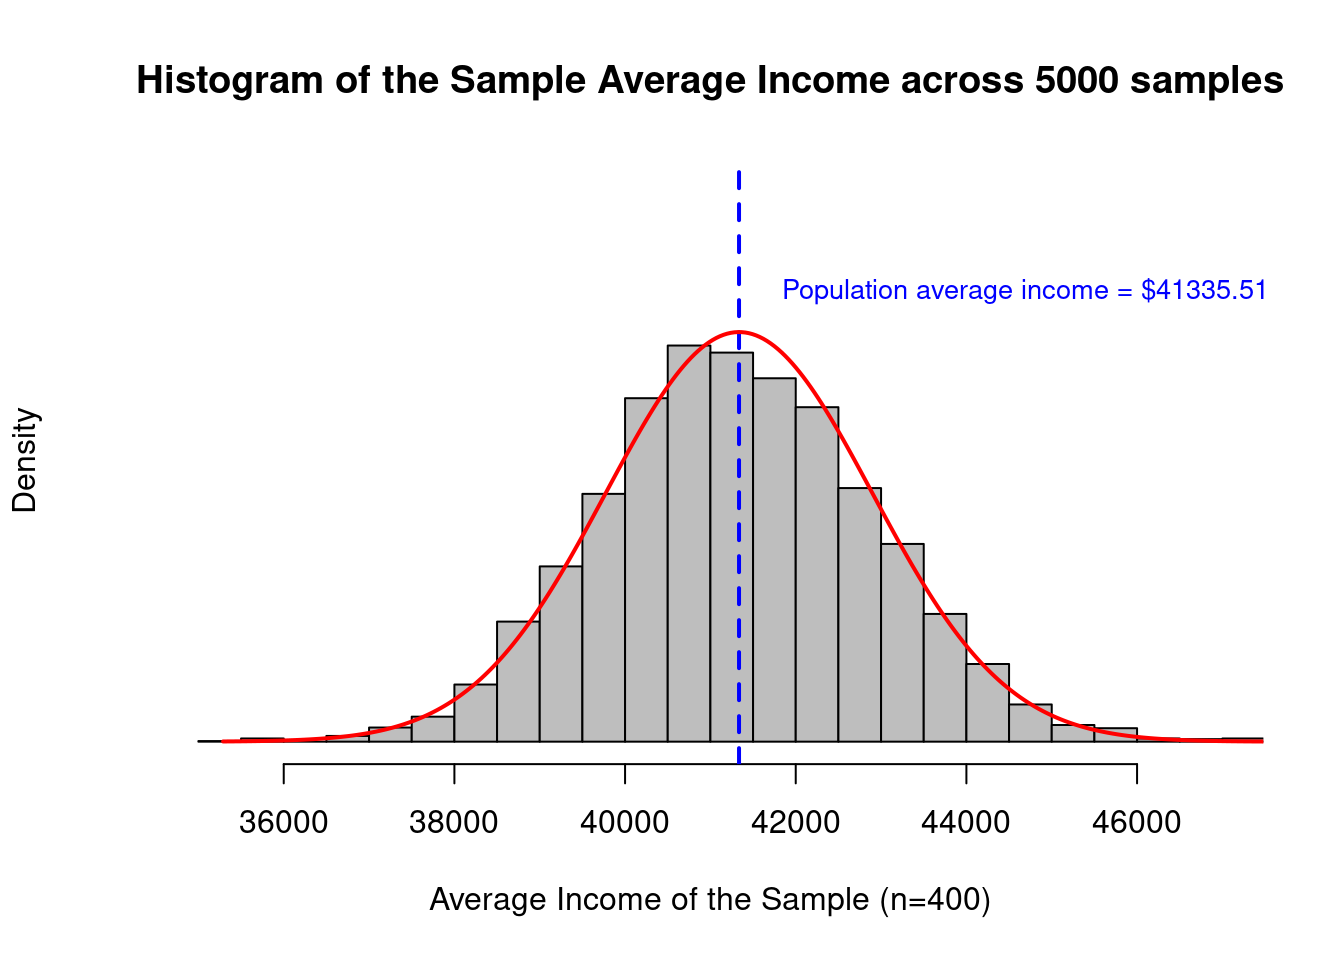
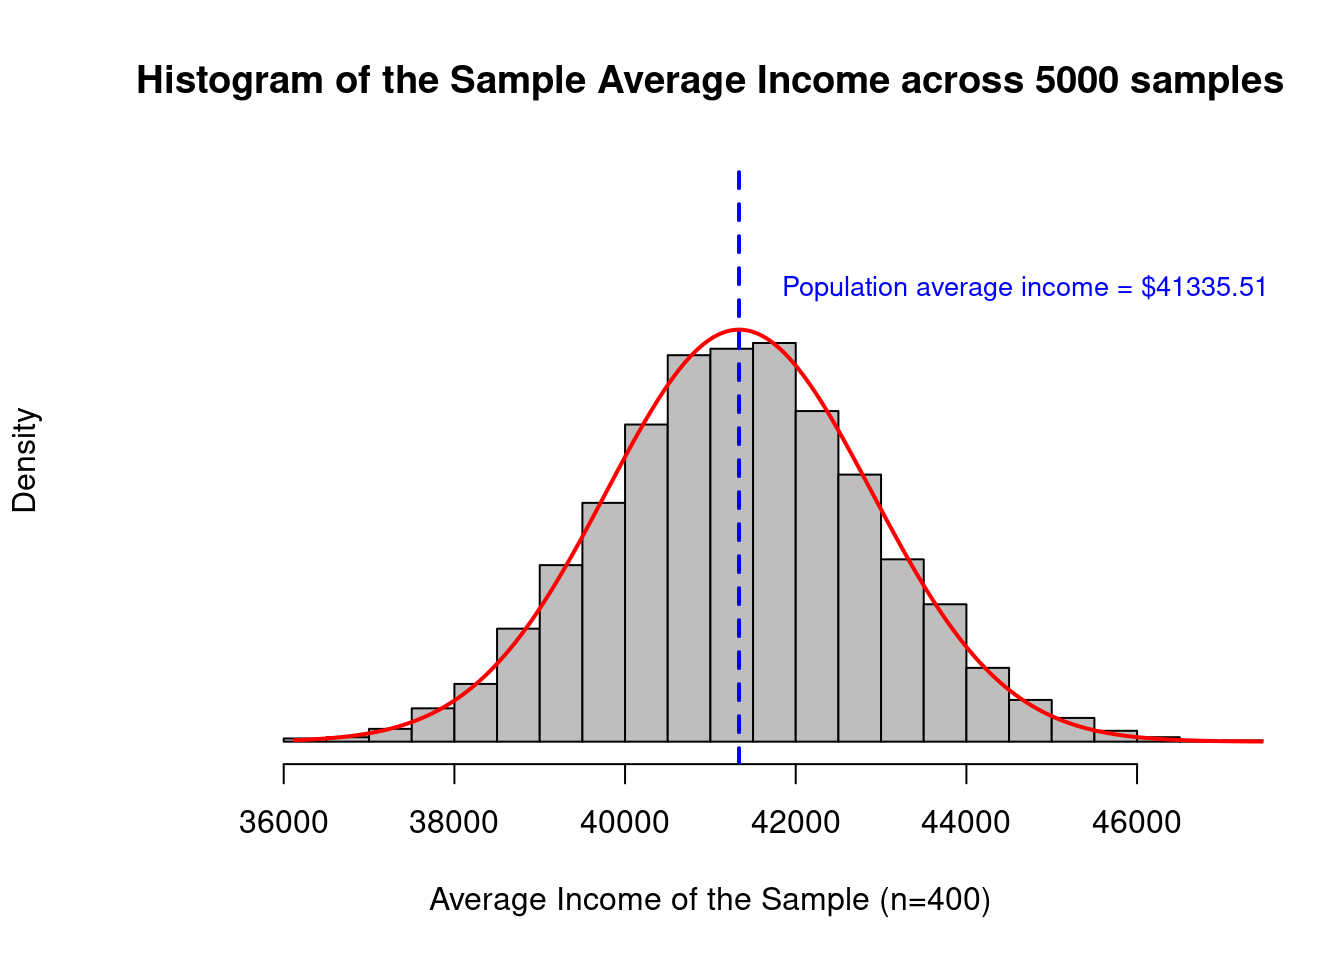
matrices data frames and arrays

diff --git a/docs/Intro-To-Coding-R.html b/docs/Intro-To-Coding-R.html
@@ -445,11 +445,14 @@ c(1, 2, 3, 4)</code></pre>
 x</code></pre>
 <pre><code>&gt; [1] 1.10 0.00 3.14 2.72</code></pre>
 <p>One way to access specific values within a vector is use the index of
-that value</p>
+that value:</p>
 <pre class="r"><code>x[1]</code></pre>
 <pre><code>&gt; [1] 1.1</code></pre>
 <pre class="r"><code>x[4]</code></pre>
 <pre><code>&gt; [1] 2.72</code></pre>
+<p>Or you can access a range of values:</p>
+<pre class="r"><code>x[2:4]</code></pre>
+<pre><code>&gt; [1] 0.00 3.14 2.72</code></pre>
 <p>Sequences of integers are so common that there is a shortcut for
 making them.</p>
 <pre class="r"><code>1:4</code></pre>
@@ -468,15 +471,124 @@ x</code></pre>
 &gt; [26] 26 27 28 29 30 31 32 33 34 35 36 37 38 39 40</code></pre>
 <hr />
 </div>
-<div id="arrays-matrices-data-frames" class="section level2">
-<h2>Arrays, Matrices, Data Frames</h2>
-<p>Stuff about arrays and matrices</p>
+<div id="matrices-arrays-data-frames" class="section level2">
+<h2>Matrices, Arrays, Data Frames</h2>
+<div id="matrices" class="section level3">
+<h3>Matrices</h3>
+<p>A matrix is a two dimensional set of data.</p>
+<p>You can specify matrices of any size. nrow tells R the number of
+rows, and ncol tells R the number of columns.</p>
+<pre class="r"><code>myMatrix = matrix(data = 0, nrow = 3, ncol = 2)</code></pre>
+<p>Like in a vector we can access matrix items using square brackets,
+however we now require two inputs, one for each dimension.</p>
+<pre class="r"><code>myMatrix</code></pre>
+<pre><code>&gt;      [,1] [,2]
+&gt; [1,]    0    0
+&gt; [2,]    0    0
+&gt; [3,]    0    0</code></pre>
+<pre class="r"><code>myMatrix[1,1] = 2
+myMatrix[1,2] = 3
+myMatrix</code></pre>
+<pre><code>&gt;      [,1] [,2]
+&gt; [1,]    2    3
+&gt; [2,]    0    0
+&gt; [3,]    0    0</code></pre>
+<p>We can also access entire rows or columns of matrices at once, by
+leaving the input blank.</p>
+<pre class="r"><code>myMatrix[1, ]</code></pre>
+<pre><code>&gt; [1] 2 3</code></pre>
+<pre class="r"><code>myMatrix[ , 1]</code></pre>
+<pre><code>&gt; [1] 2 0 0</code></pre>
+<p>We can add rows or columns using the rbind() and cbind()
+functions.</p>
+<pre class="r"><code>my2ndMatrix = cbind(myMatrix,c(1,2,3))
+my2ndMatrix</code></pre>
+<pre><code>&gt;      [,1] [,2] [,3]
+&gt; [1,]    2    3    1
+&gt; [2,]    0    0    2
+&gt; [3,]    0    0    3</code></pre>
+<pre class="r"><code>my2ndMatrix = rbind(myMatrix, c(1,2))
+my2ndMatrix</code></pre>
+<pre><code>&gt;      [,1] [,2]
+&gt; [1,]    2    3
+&gt; [2,]    0    0
+&gt; [3,]    0    0
+&gt; [4,]    1    2</code></pre>
+<p>Useful operators on matrices:</p>
+<pre class="r"><code>#Dimensions
+dim(myMatrix)</code></pre>
+<pre><code>&gt; [1] 3 2</code></pre>
+<pre class="r"><code>nrow(myMatrix)</code></pre>
+<pre><code>&gt; [1] 3</code></pre>
+<pre class="r"><code>ncol(myMatrix)</code></pre>
+<pre><code>&gt; [1] 2</code></pre>
+<pre class="r"><code>length(myMatrix)</code></pre>
+<pre><code>&gt; [1] 6</code></pre>
+<pre class="r"><code>#Check if item exists
+1 %in% myMatrix</code></pre>
+<pre><code>&gt; [1] FALSE</code></pre>
+<pre class="r"><code>2 %in% myMatrix</code></pre>
+<pre><code>&gt; [1] TRUE</code></pre>
+</div>
+<div id="arrays" class="section level3">
+<h3>Arrays</h3>
+<p>Arrays are very similar to matrices. The key difference is they can
+have more than two dimensions.</p>
+<pre class="r"><code># Creating a 4x3x2 array
+myArray = array(data = 0, dim = c(4,3,2))
+myArray[1,1,1] = 1
+myArray[1,2,1] = 2
+myArray[1,1,2] = 3
+myArray[1,2,2] = 4
+myArray[2, , ] = 5
+myArray</code></pre>
+<pre><code>&gt; , , 1
+&gt; 
+&gt;      [,1] [,2] [,3]
+&gt; [1,]    1    2    0
+&gt; [2,]    5    5    5
+&gt; [3,]    0    0    0
+&gt; [4,]    0    0    0
+&gt; 
+&gt; , , 2
+&gt; 
+&gt;      [,1] [,2] [,3]
+&gt; [1,]    3    4    0
+&gt; [2,]    5    5    5
+&gt; [3,]    0    0    0
+&gt; [4,]    0    0    0</code></pre>
+</div>
+<div id="data-frames" class="section level3">
+<h3>Data Frames</h3>
+<p>Data frames are more complex matrices. They allow for each column to
+contain a different data type. Some statistics functions will require
+either a data.frame or a matrix.</p>
+<p>The data you will be using in this class will be imported as data
+frames.</p>
+<p>You can use the same functions and methods of accessing data frames
+as you can matrices, with the addition of some new ones.</p>
+<pre class="r"><code>myDF = data.frame(col1 = 1:3, col2 = 4:6, col3 = c(&quot;a&quot;, &quot;b&quot;, &quot;c&quot;))
+myDF</code></pre>
+<pre><code>&gt;   col1 col2 col3
+&gt; 1    1    4    a
+&gt; 2    2    5    b
+&gt; 3    3    6    c</code></pre>
+<pre class="r"><code>#Request a summary of the data frame
+summary(myDF)</code></pre>
+<pre><code>&gt;       col1          col2         col3          
+&gt;  Min.   :1.0   Min.   :4.0   Length:3          
+&gt;  1st Qu.:1.5   1st Qu.:4.5   Class :character  
+&gt;  Median :2.0   Median :5.0   Mode  :character  
+&gt;  Mean   :2.0   Mean   :5.0                     
+&gt;  3rd Qu.:2.5   3rd Qu.:5.5                     
+&gt;  Max.   :3.0   Max.   :6.0</code></pre>
+<pre class="r"><code>#Access specific named columns
+myDF$col1</code></pre>
+<pre><code>&gt; [1] 1 2 3</code></pre>
+<pre class="r"><code>myDF$col3</code></pre>
+<pre><code>&gt; [1] &quot;a&quot; &quot;b&quot; &quot;c&quot;</code></pre>
 <hr />
 </div>
-<div id="data-tables" class="section level2">
-<h2>Data Tables</h2>
-<p>data.tables are hype</p>
-<hr />
 </div>
 <div id="functions" class="section level2">
 <h2>Functions</h2>
@@ -745,9 +857,8 @@ head(data)</code></pre>
 &gt; 6    3       3        2  23015      1        40</code></pre>
 <pre class="r"><code>#Count number of families with more than two people
 count = 0
-for(x in data$PERSONS){
-  # x is taken from each row of the &#39;persons&#39; column
-  if(x&gt;2) count = count + 1
+for(x in 1:nrow(data)){
+  if(data[x, &quot;PERSONS&quot;]&gt;2) count = count + 1
 }
 count</code></pre>
 <pre><code>&gt; [1] 25335</code></pre>

diff --git a/docs/03b-CLT.html b/docs/03b-CLT.html
@@ -457,11 +457,11 @@ deviation of the sample.</p>
 <pre class="r"><code># Calculate the sample mean of Income
 sample.avg &lt;- mean(study.data$INCOME)
 sample.avg</code></pre>
-<pre><code>&gt; [1] 39616.03</code></pre>
+<pre><code>&gt; [1] 44385</code></pre>
 <pre class="r"><code># Calculate the sample sd of Income
 sample.sd &lt;- sd(study.data$INCOME)
 sample.sd</code></pre>
-<pre><code>&gt; [1] 32323.15</code></pre>
+<pre><code>&gt; [1] 37624.98</code></pre>
 <p>If you run the last two sections of code repeatedly, you will find
 that each time a new sample is selected the sample mean is a different
 number.</p>
@@ -587,7 +587,7 @@ upperCI = sample.avg + qnorm(0.975, mean = 0, sd = 1) * se
 
 print(cbind(sample.avg, lowerCI, upperCI))</code></pre>
 <pre><code>&gt;      sample.avg  lowerCI  upperCI
-&gt; [1,]   41425.78 38361.97 44489.59</code></pre>
+&gt; [1,]   42670.69 39624.94 45716.45</code></pre>
 </div>
 <div id="interpreting-confidence-intervals" class="section level2">
 <h2>Interpreting confidence intervals</h2>
@@ -613,7 +613,7 @@ sample.reps$outBounds[ true.avg &gt; sample.reps$upperCI ] &lt;- 1
 
 # what % of study replications reported 95% CI that did not include the true population average?
 sum(sample.reps$outBounds)/m</code></pre>
-<pre><code>&gt; [1] 0.0508</code></pre>
+<pre><code>&gt; [1] 0.0522</code></pre>
 <p>I hope it is not too much of a surprise that this is really close to
 5%!</p>
 <p>Next: Elements of a Statistical Test</p>

diff --git a/docs/04a-Binomial-Test.html b/docs/04a-Binomial-Test.html
@@ -366,7 +366,7 @@ if(runif(1) &lt;= p){1}else{0}</code></pre>
 p = 1/6
 n = 20
 as.integer(runif(n) &lt;= p)</code></pre>
-<pre><code>&gt;  [1] 1 0 0 0 0 0 0 0 0 0 0 0 0 0 0 1 0 1 0 0</code></pre>
+<pre><code>&gt;  [1] 0 0 1 1 0 0 0 1 0 1 0 0 0 1 0 0 1 1 0 0</code></pre>
 </div>
 </div>
 <div id="binomial-distribution-functions" class="section level2">
@@ -424,9 +424,9 @@ trials when the probability of success is “prob”</p>
 n = 20
 p = 1/6
 rbinom(n = trials, size = n, prob = p)</code></pre>
-<pre><code>&gt;   [1] 2 5 3 3 5 3 4 2 5 5 7 1 5 1 2 4 6 3 7 1 1 5 1 0 5 2 5 3 4 4 4 2 3 1 2 5 1
-&gt;  [38] 3 4 4 3 5 1 2 6 2 4 1 5 3 5 3 4 5 6 2 2 3 4 4 6 6 4 5 5 3 1 6 3 4 2 4 4 3
-&gt;  [75] 2 3 3 3 2 2 6 2 3 5 1 5 3 4 6 4 1 4 4 6 3 4 2 4 2 7</code></pre>
+<pre><code>&gt;   [1] 3 1 4 3 3 2 0 1 5 5 4 2 4 2 5 2 3 3 1 1 2 4 5 4 2 3 2 0 7 4 4 4 1 7 1 1 0
+&gt;  [38] 5 1 2 3 2 2 4 2 4 2 3 2 0 5 7 4 6 4 1 5 3 3 2 2 1 1 3 4 1 2 4 2 5 2 4 5 4
+&gt;  [75] 2 6 2 3 5 3 6 1 3 2 2 4 4 6 3 6 2 3 5 4 2 4 4 1 3 7</code></pre>
 </div>
 </div>
 <div id="binomial-test-theory" class="section level2">

diff --git a/docs/Intro-To-R.html b/docs/Intro-To-R.html
@@ -344,8 +344,8 @@ R</h1>
 <div id="datasets" class="section level2">
 <h2>Datasets</h2>
 <p>All of the datasets used in examples on this site and in Ivey
-Business Statistics are available here: <a
-href="01-Datasets.html">Datasets Home Page</a></p>
+Business Statistics are available here:</p>
+<p><a href="01-Datasets.html">Datasets Home Page</a> <br> <br></p>
 </div>
 <div id="introduction-to-statistical-coding-in-r"
 class="section level2">
